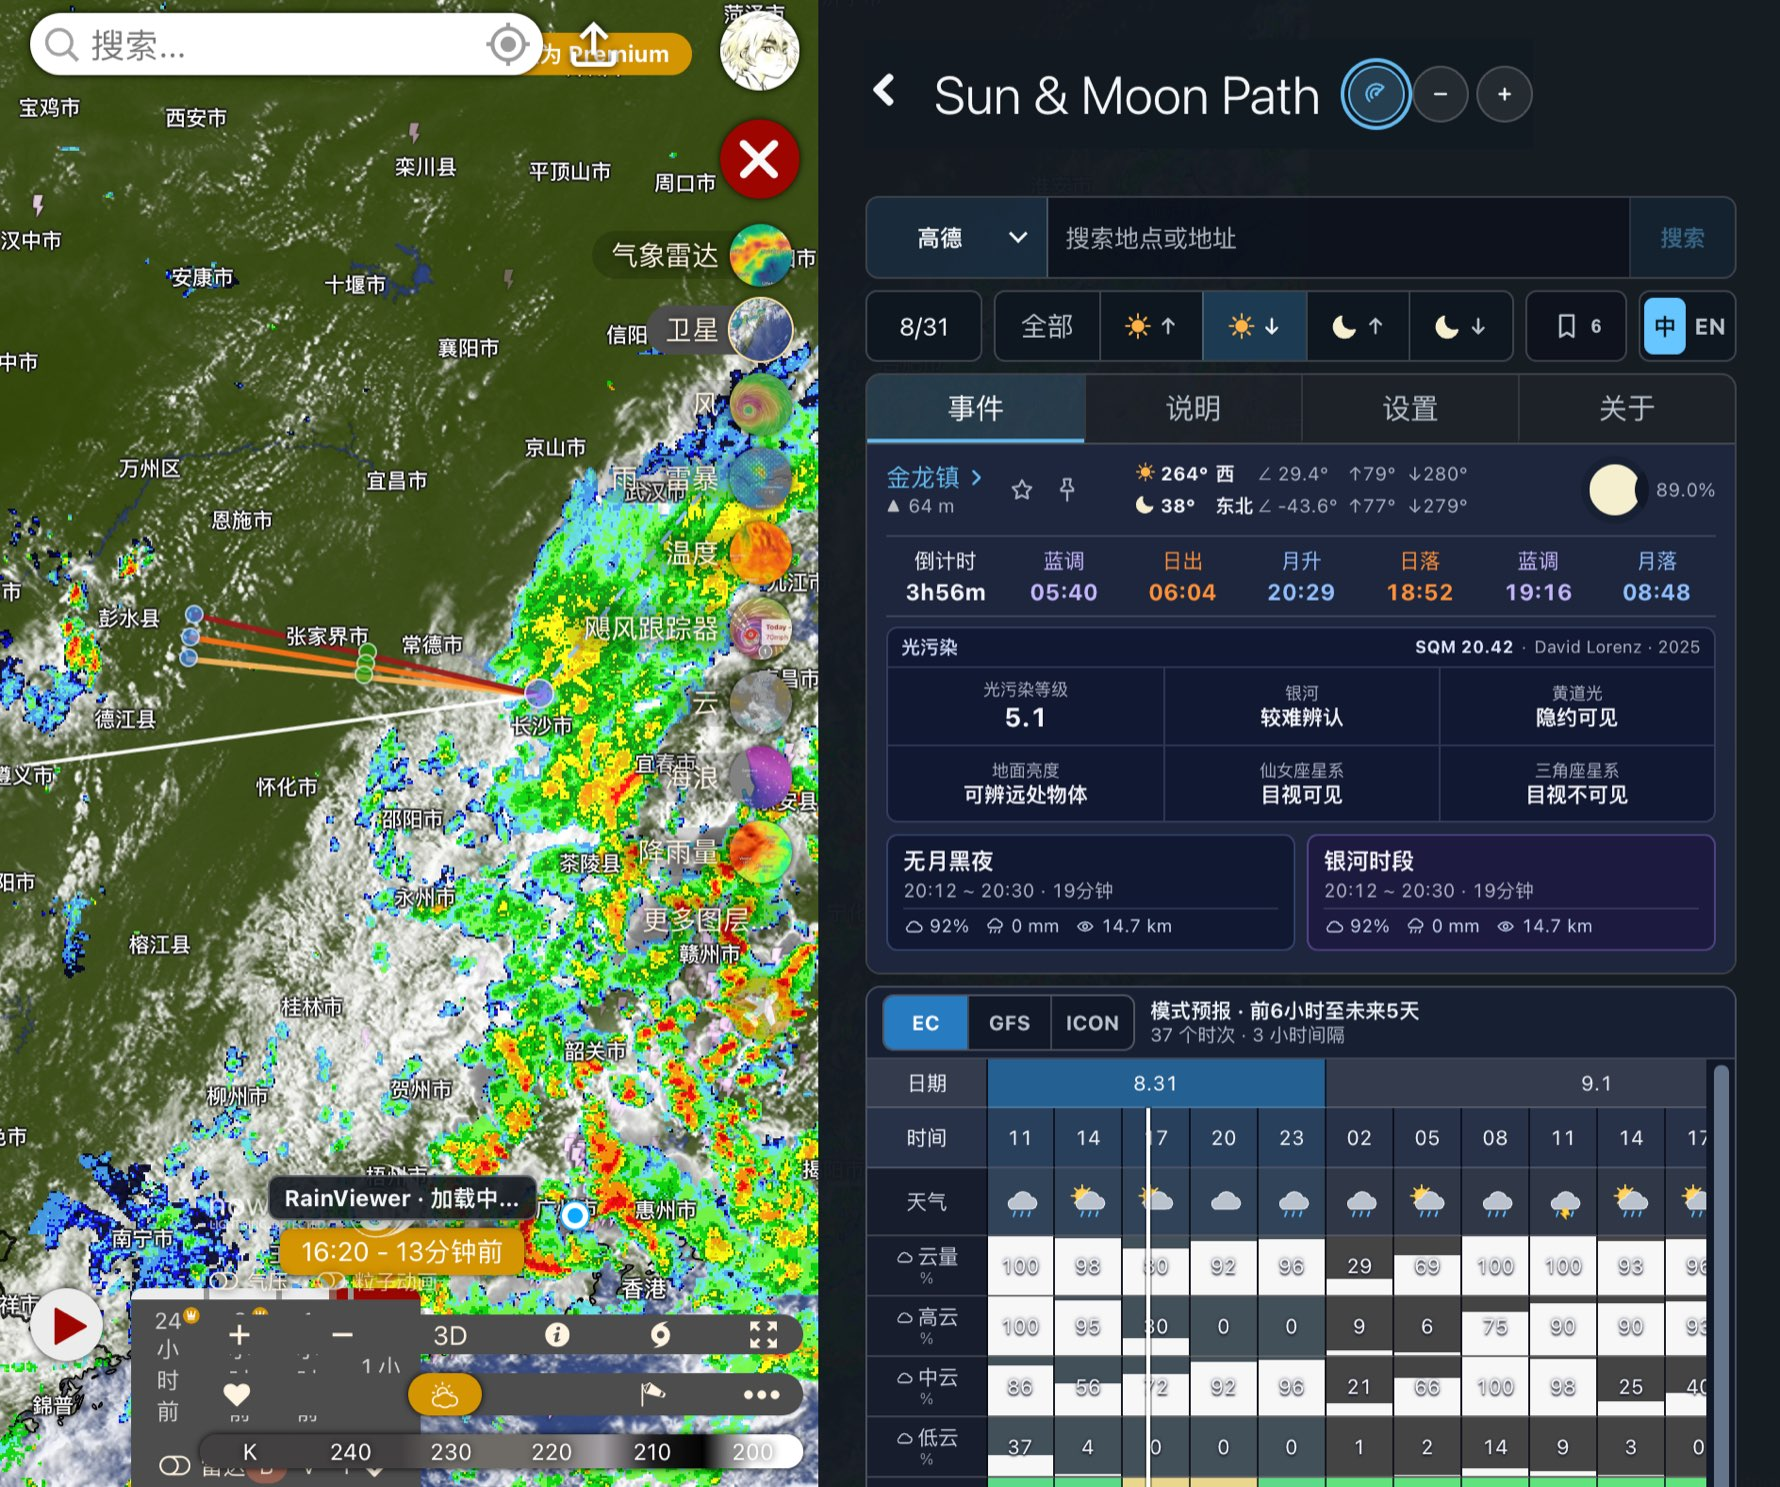
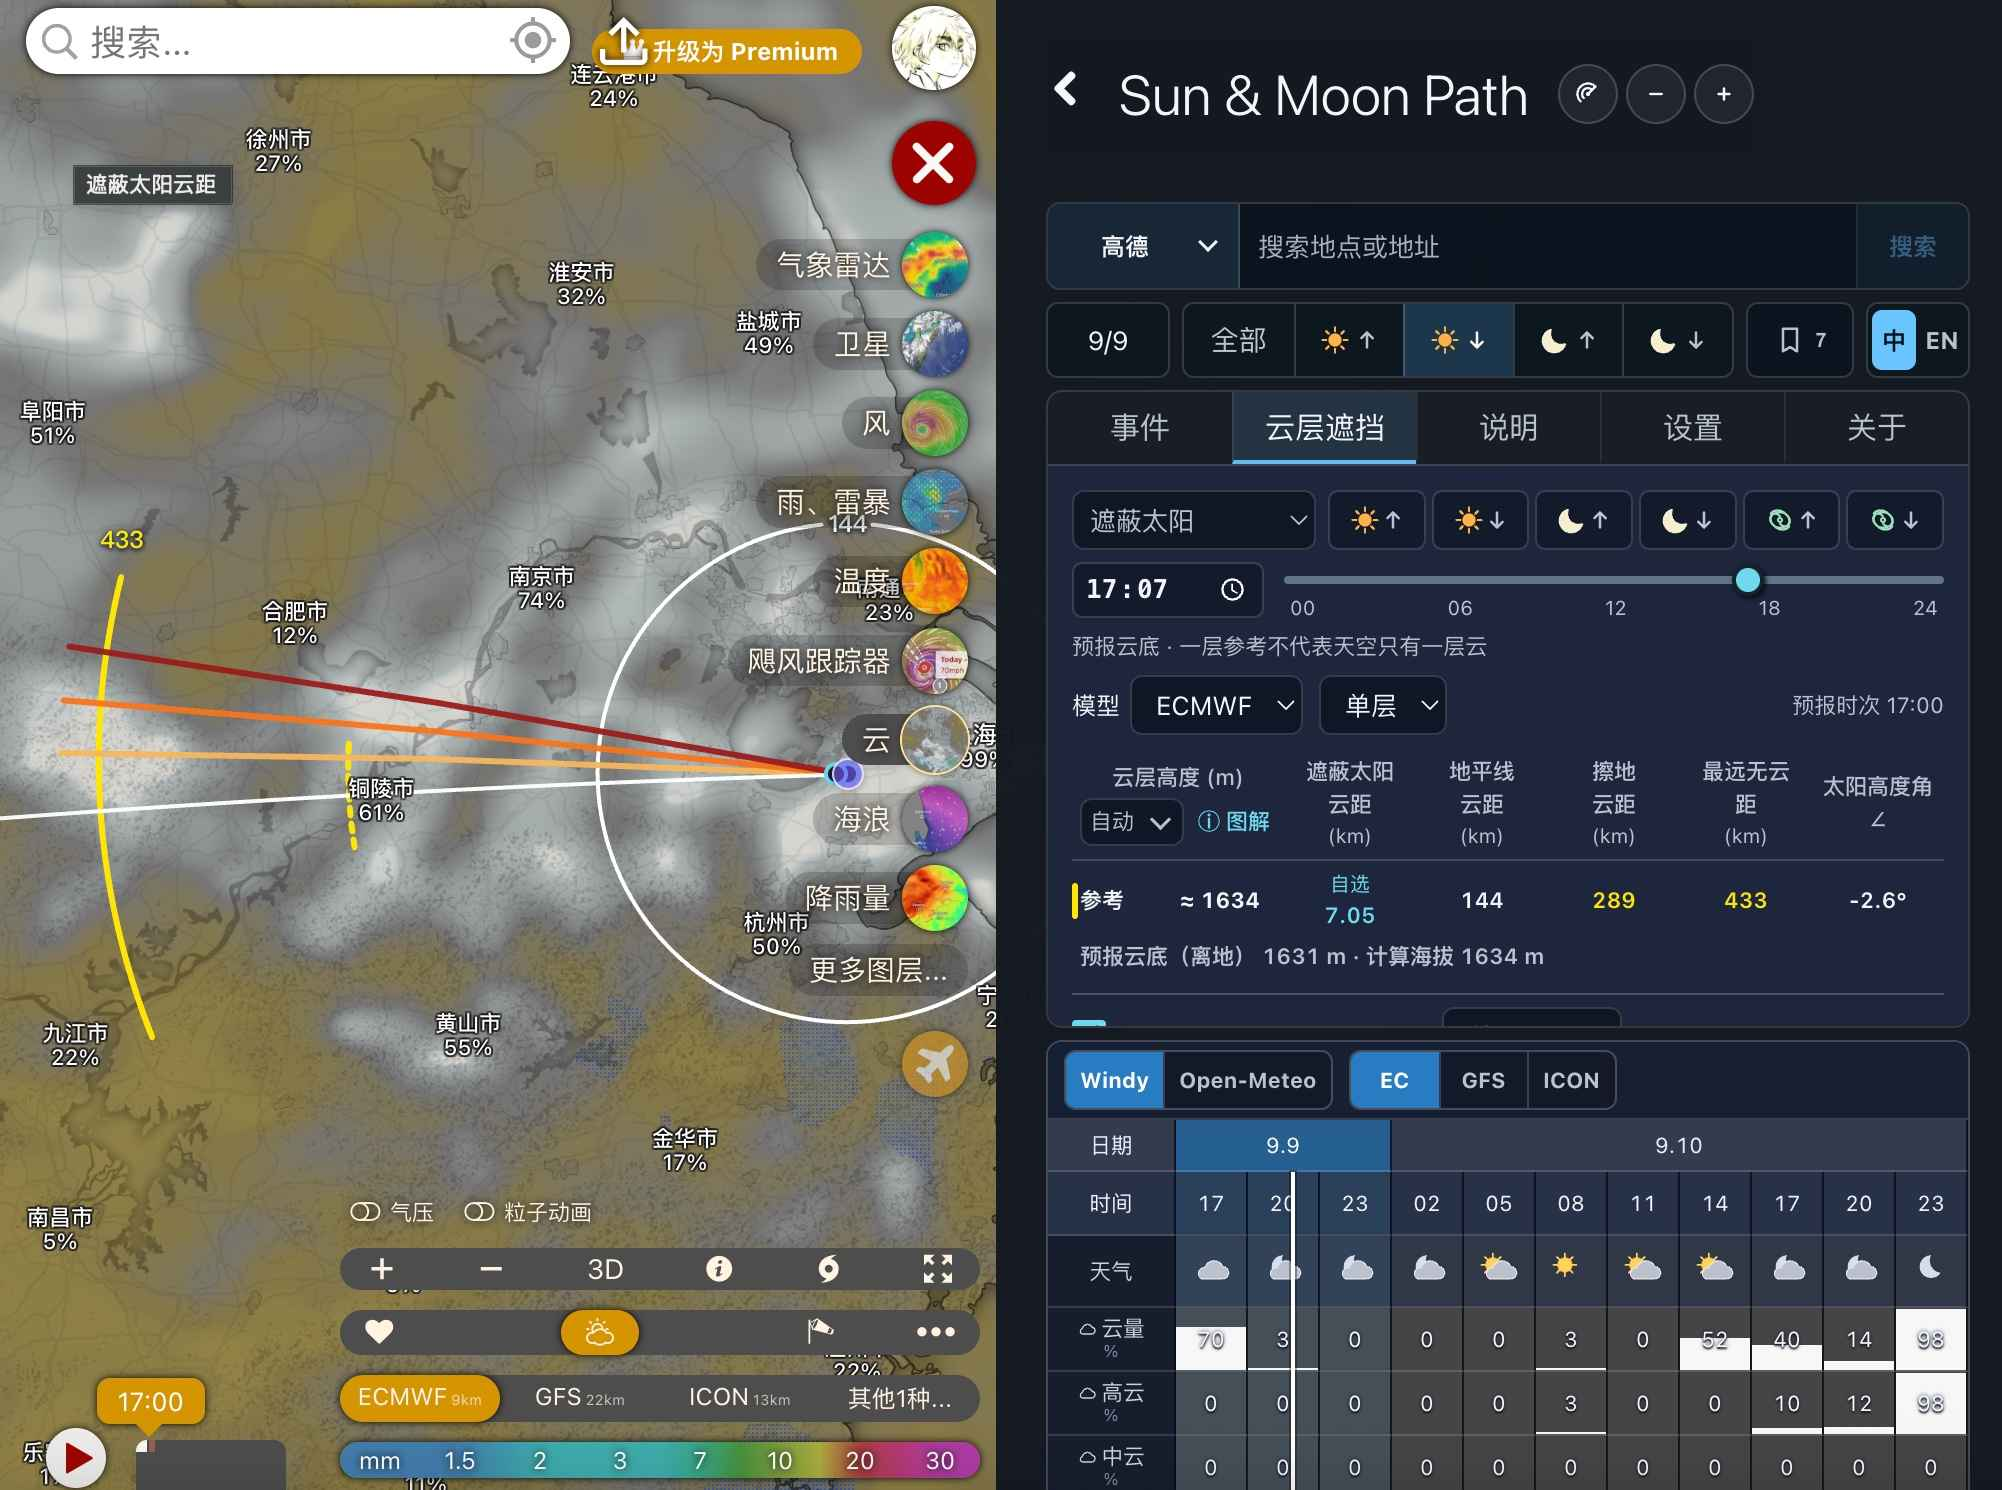
release: 发布 0.10.0 正式版

diff --git a/src/pluginUi.test.ts b/src/pluginUi.test.ts
@@ -282,7 +282,7 @@ describe('plugin astronomy loading presentation', () => {
         expect(pluginSource).toContain('{text.aboutAuthorLabel}');
         expect(pluginSource).toContain('{text.aboutVersionLabel}');
         expect(pluginSource).toContain('{text.aboutCurrentVersionDateLabel}');
-        expect(pluginConfigSource).toContain("export const currentVersionReleasedAt = '2026-08-31';");
+        expect(pluginConfigSource).toContain("export const currentVersionReleasedAt = '2026-09-09';");
         expect(pluginSource).toContain("import config, { currentVersionReleasedAt } from './pluginConfig';");
         expect(pluginSource).toContain('class="about-meta__date"');
         expect(pluginSource).toContain('<time datetime={currentVersionReleasedAt}>{currentVersionReleasedAt}</time>');
@@ -308,7 +308,7 @@ describe('plugin astronomy loading presentation', () => {
         expect(pluginSource).toMatch(
             /\.sun-path-panel\.mobile_ui \.about-update button\s*{[\s\S]*?min-height: 32px;/,
         );
-        expect(pluginConfigSource).toContain("version: '0.9.1'");
+        expect(pluginConfigSource).toContain("version: '0.10.0'");
         expect(pluginSource).toMatch(
             /\.summary-tab__badge\s*{[\s\S]*?white-space: nowrap;[\s\S]*?background: var\(--panel-accent\);/,
         );

diff --git a/src/betaReleaseNotesBuild.test.ts b/src/betaReleaseNotesBuild.test.ts
@@ -1,6 +1,6 @@
 import { describe, expect, it } from 'vitest';
 
-import formalNotesSource from '../release-notes/0.9.1.json?raw';
+import formalNotesSource from '../release-notes/0.10.0.json?raw';
 import betaNotesSource from '../release-notes/beta.json?raw';
 import packageSource from '../package.json?raw';
 import pluginSource from './plugin.svelte?raw';
@@ -16,8 +16,8 @@ describe('beta release notes development asset', () => {
         };
         const formalNotes = JSON.parse(formalNotesSource) as typeof notes;
 
-        expect(notes.version).toBe('0.9.1');
-        expect(notes.releasedAt).toBe('2026-08-31');
+        expect(notes.version).toBe('0.10.0');
+        expect(notes.releasedAt).toBe('2026-09-09');
         expect(formalNotes).toEqual(notes);
         expect(notes.zh.items.length).toBeGreaterThan(0);
         expect(notes.en.items.length).toBeGreaterThan(0);

diff --git a/src/pluginConfig.ts b/src/pluginConfig.ts
@@ -1,11 +1,11 @@
 import type { ExternalPluginConfig } from '@windy/interfaces.d';
 
 /** Keep this date aligned with the published GitHub Release for the configured version. */
-export const currentVersionReleasedAt = '2026-08-31';
+export const currentVersionReleasedAt = '2026-09-09';
 
 const config: ExternalPluginConfig = {
     name: 'windy-plugin-sun-moon-path',
-    version: '0.9.1',
+    version: '0.10.0',
     icon: '☀',
     title: 'Sun & Moon Path',
     description: 'Show sunrise, sunset, moonrise, moonset and live celestial directions on Windy.',

diff --git a/docs/0.10.0-publishing-copy.md b/docs/0.10.0-publishing-copy.md
@@ -1,0 +1,77 @@
+# 0.10.0 发布文案
+
+以下文案供正式发布成功后复制使用；当前文件本身不代表版本已发布。
+
+## 小红书
+
+### 标题
+
+拍日落别只看云量，还要看云在哪☀
+
+### 正文
+
+同样是有云，为什么有时能拍到太阳，有时却被挡得严严实实？
+
+除了云量，云的高度、方向，以及你打算拍摄的时间，也值得一起看。
+
+我做的 Windy 插件 Sun & Moon Path 更新到 0.10.0，这次加上了「云层遮挡」规划👇
+
+☀ 太阳、月亮、银心都能选
+可以切换拍摄目标，也可以用自动模式：太阳在地平线上时看太阳，否则看月亮。
+
+☁ 把云高变成地图上的距离参考
+自动读取当前点的云底或分层云高，也能手动输入远处目标云区的高度。地图会画出视线交点、地平线圈和距离弧线，方便继续检查那个方向的云况。
+
+⏱ 拖动时间，观察参考线怎么变
+支持分钟级时间条，也能一键跳到太阳、月亮、银心的升落时刻，提前比较不同拍摄时间。
+
+📖 看不懂云距？加了中英文图解
+遮蔽云距、地平线云距、擦地云距、最远无云距，可以对照示意图理解。
+
+🌦 天气数据可以换着看
+支持 Windy / Open-Meteo，以及 EC、GFS、ICON 模型。观测时段和收藏机位对比也会跟随所选来源；云高和地图云图仍使用 Windy。
+
+另外，温度、风速、距离和海拔等单位现在跟随 Windy，面板布局和雷达开关也做了优化。
+
+用法可以很简单：选机位 → 选日期和目标 → 确认云高 → 拖动时间 → 去地图上检查对应方向的云区。
+
+提醒一句：这是几何规划工具，不是「火烧云保证器」。当前点的云高不代表远处云区，沿途地形、云层厚度和大气通透度仍要结合实况判断。
+
+开源仓库：https://github.com/bytepoem/windy-plugin-sun-moon-path
+插件链接：https://windy-plugins.com/17629746/windy-plugin-sun-moon-path/0.10.0/plugin.min.js
+
+#Windy #摄影工具 #风光摄影 #日落摄影 #月亮摄影 #银河摄影 #拍摄计划 #开源项目
+
+## Windy 审核帖（英文，回复原审核主题）
+
+Hi @pavelmedia and the Windy team,
+
+I have published version 0.10.0 of Sun & Moon Path and would like to request another review for inclusion in the plugin list.
+
+The main addition is a Cloud Planning tab for the Sun, Moon and Galactic Center. It supports automatic or manual cloud heights and displays spherical-geometry sightline intersections and cloud-distance references on the map. A minute timeline and six rise/set shortcuts help users explore a planned shooting time. A bilingual illustrated guide explains the distance references.
+
+This version also adds Windy / Open-Meteo weather-source selection for the weather table, observation windows and favorite-location comparisons. Cloud heights and map cloud overlays continue to use Windy data, with the source clearly identified. Units follow Windy preferences, and panel layout and radar controls have been improved.
+
+Cloud planning is explicitly presented as a geometric reference. It does not sample weather along the full sightline or predict guaranteed visibility or colorful twilight.
+
+Plugin URL: https://windy-plugins.com/17629746/windy-plugin-sun-moon-path/0.10.0/plugin.min.js
+Repository: https://github.com/bytepoem/windy-plugin-sun-moon-path
+
+Could you please review this version and let me know if any further changes are needed? Thank you!
+
+## 审核帖中文对照
+
+Hi @pavelmedia 和 Windy 团队，
+
+我已发布 Sun & Moon Path 0.10.0，希望申请再次审核，将插件加入插件列表。
+
+本次主要新增面向太阳、月亮和银心的云层规划 Tab，支持自动或手动云高，在地图上展示基于球面几何的视线交点与云层距离参考。分钟级时间条和六个升落快捷入口方便选择拍摄时刻，并提供中英文图解解释各项距离。
+
+此外，天气表格、观测时段和收藏地点对比新增 Windy / Open-Meteo 数据源切换。云高和地图云图仍使用 Windy 数据，并明确标注来源。显示单位跟随 Windy 设置，同时改善了面板布局和雷达控制。
+
+云层规划明确定位为几何参考，不会沿整条视线采样天气，也不保证目标可见或出现朝晚霞。
+
+插件链接：https://windy-plugins.com/17629746/windy-plugin-sun-moon-path/0.10.0/plugin.min.js
+仓库：https://github.com/bytepoem/windy-plugin-sun-moon-path
+
+烦请审核这一版本，如仍有需要调整的地方，请告知。谢谢！

diff --git a/README_EN.md b/README_EN.md
@@ -80,17 +80,17 @@ relative to a point on the Windy map.
 
 ## Plugin URL
 
-Current formal version: `0.9.1`
+Current formal version: `0.10.0`
 
 Current loadable plugin bundle:
 
-[https://windy-plugins.com/17629746/windy-plugin-sun-moon-path/0.9.1/plugin.min.js](https://windy-plugins.com/17629746/windy-plugin-sun-moon-path/0.9.1/plugin.min.js)
+[https://windy-plugins.com/17629746/windy-plugin-sun-moon-path/0.10.0/plugin.min.js](https://windy-plugins.com/17629746/windy-plugin-sun-moon-path/0.10.0/plugin.min.js)
 
 Project links:
 
 - GitHub repository: [bytepoem/windy-plugin-sun-moon-path](https://github.com/bytepoem/windy-plugin-sun-moon-path)
 - Issues: [report a problem or suggestion](https://github.com/bytepoem/windy-plugin-sun-moon-path/issues)
-- Formal release: [0.9.1](https://github.com/bytepoem/windy-plugin-sun-moon-path/releases/tag/0.9.1)
+- Formal release: [0.10.0](https://github.com/bytepoem/windy-plugin-sun-moon-path/releases/tag/0.10.0)
 - Author: [bytepoem](https://github.com/bytepoem)
 
 ## Development
